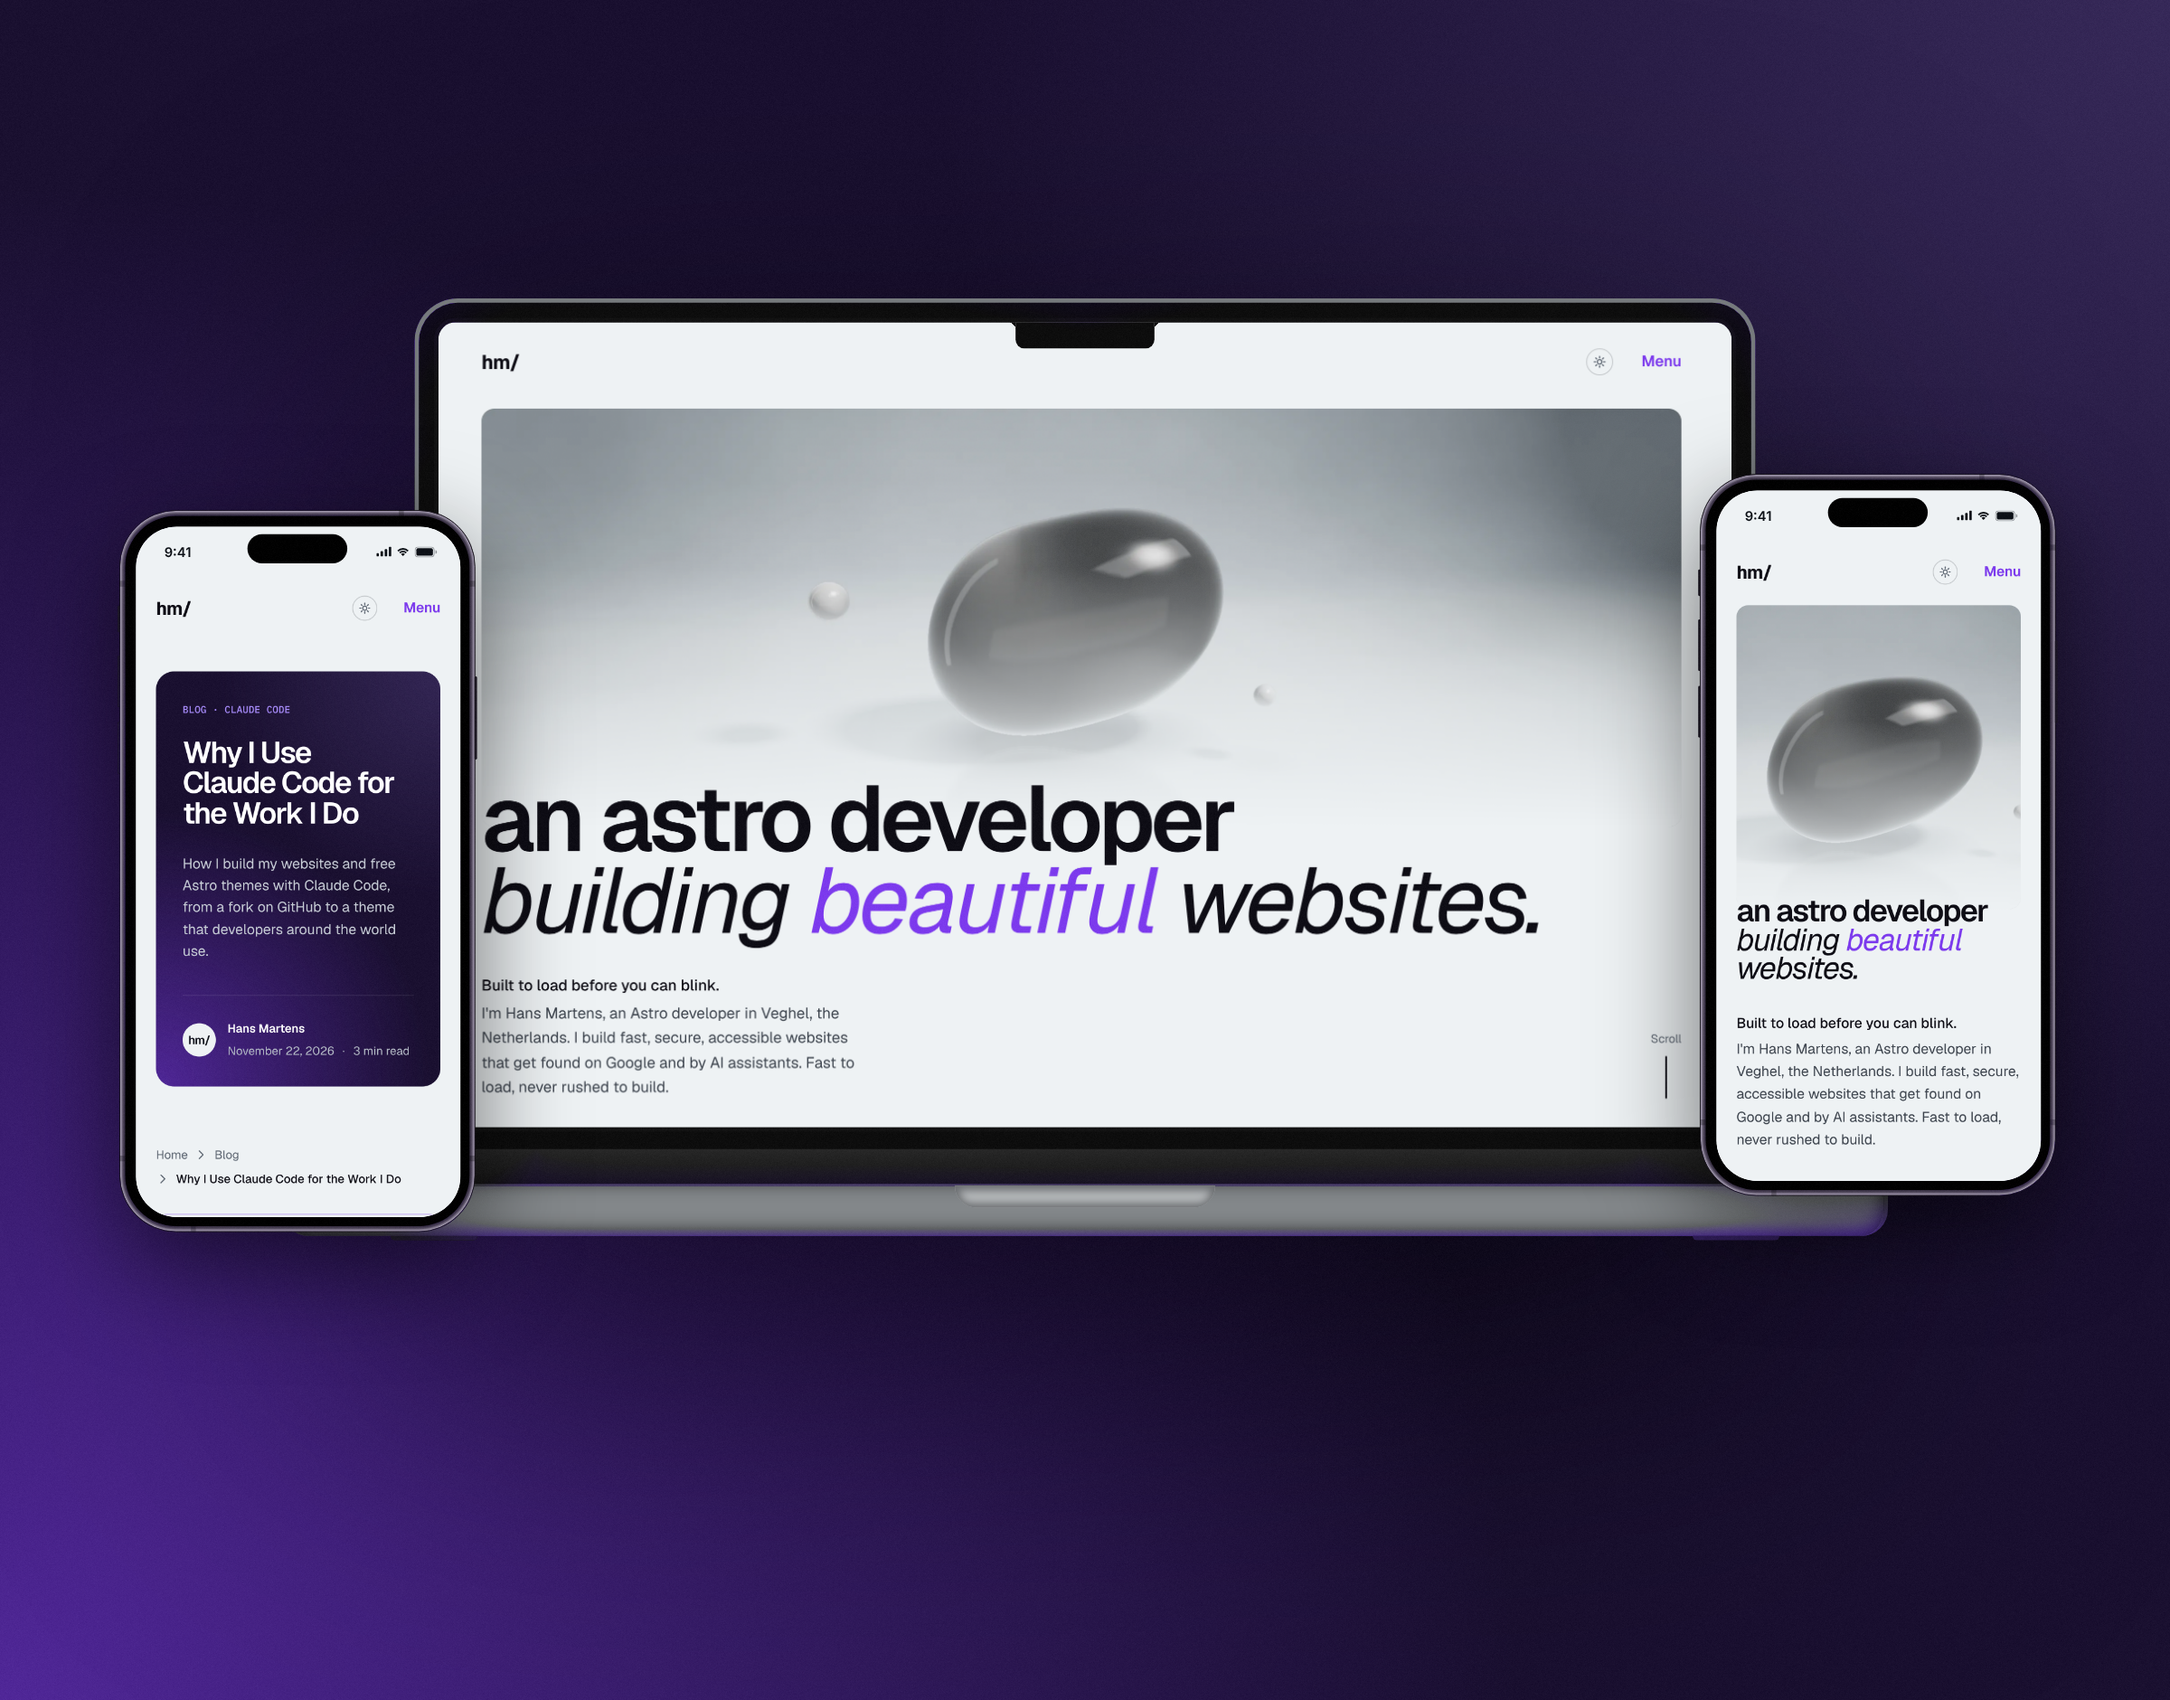
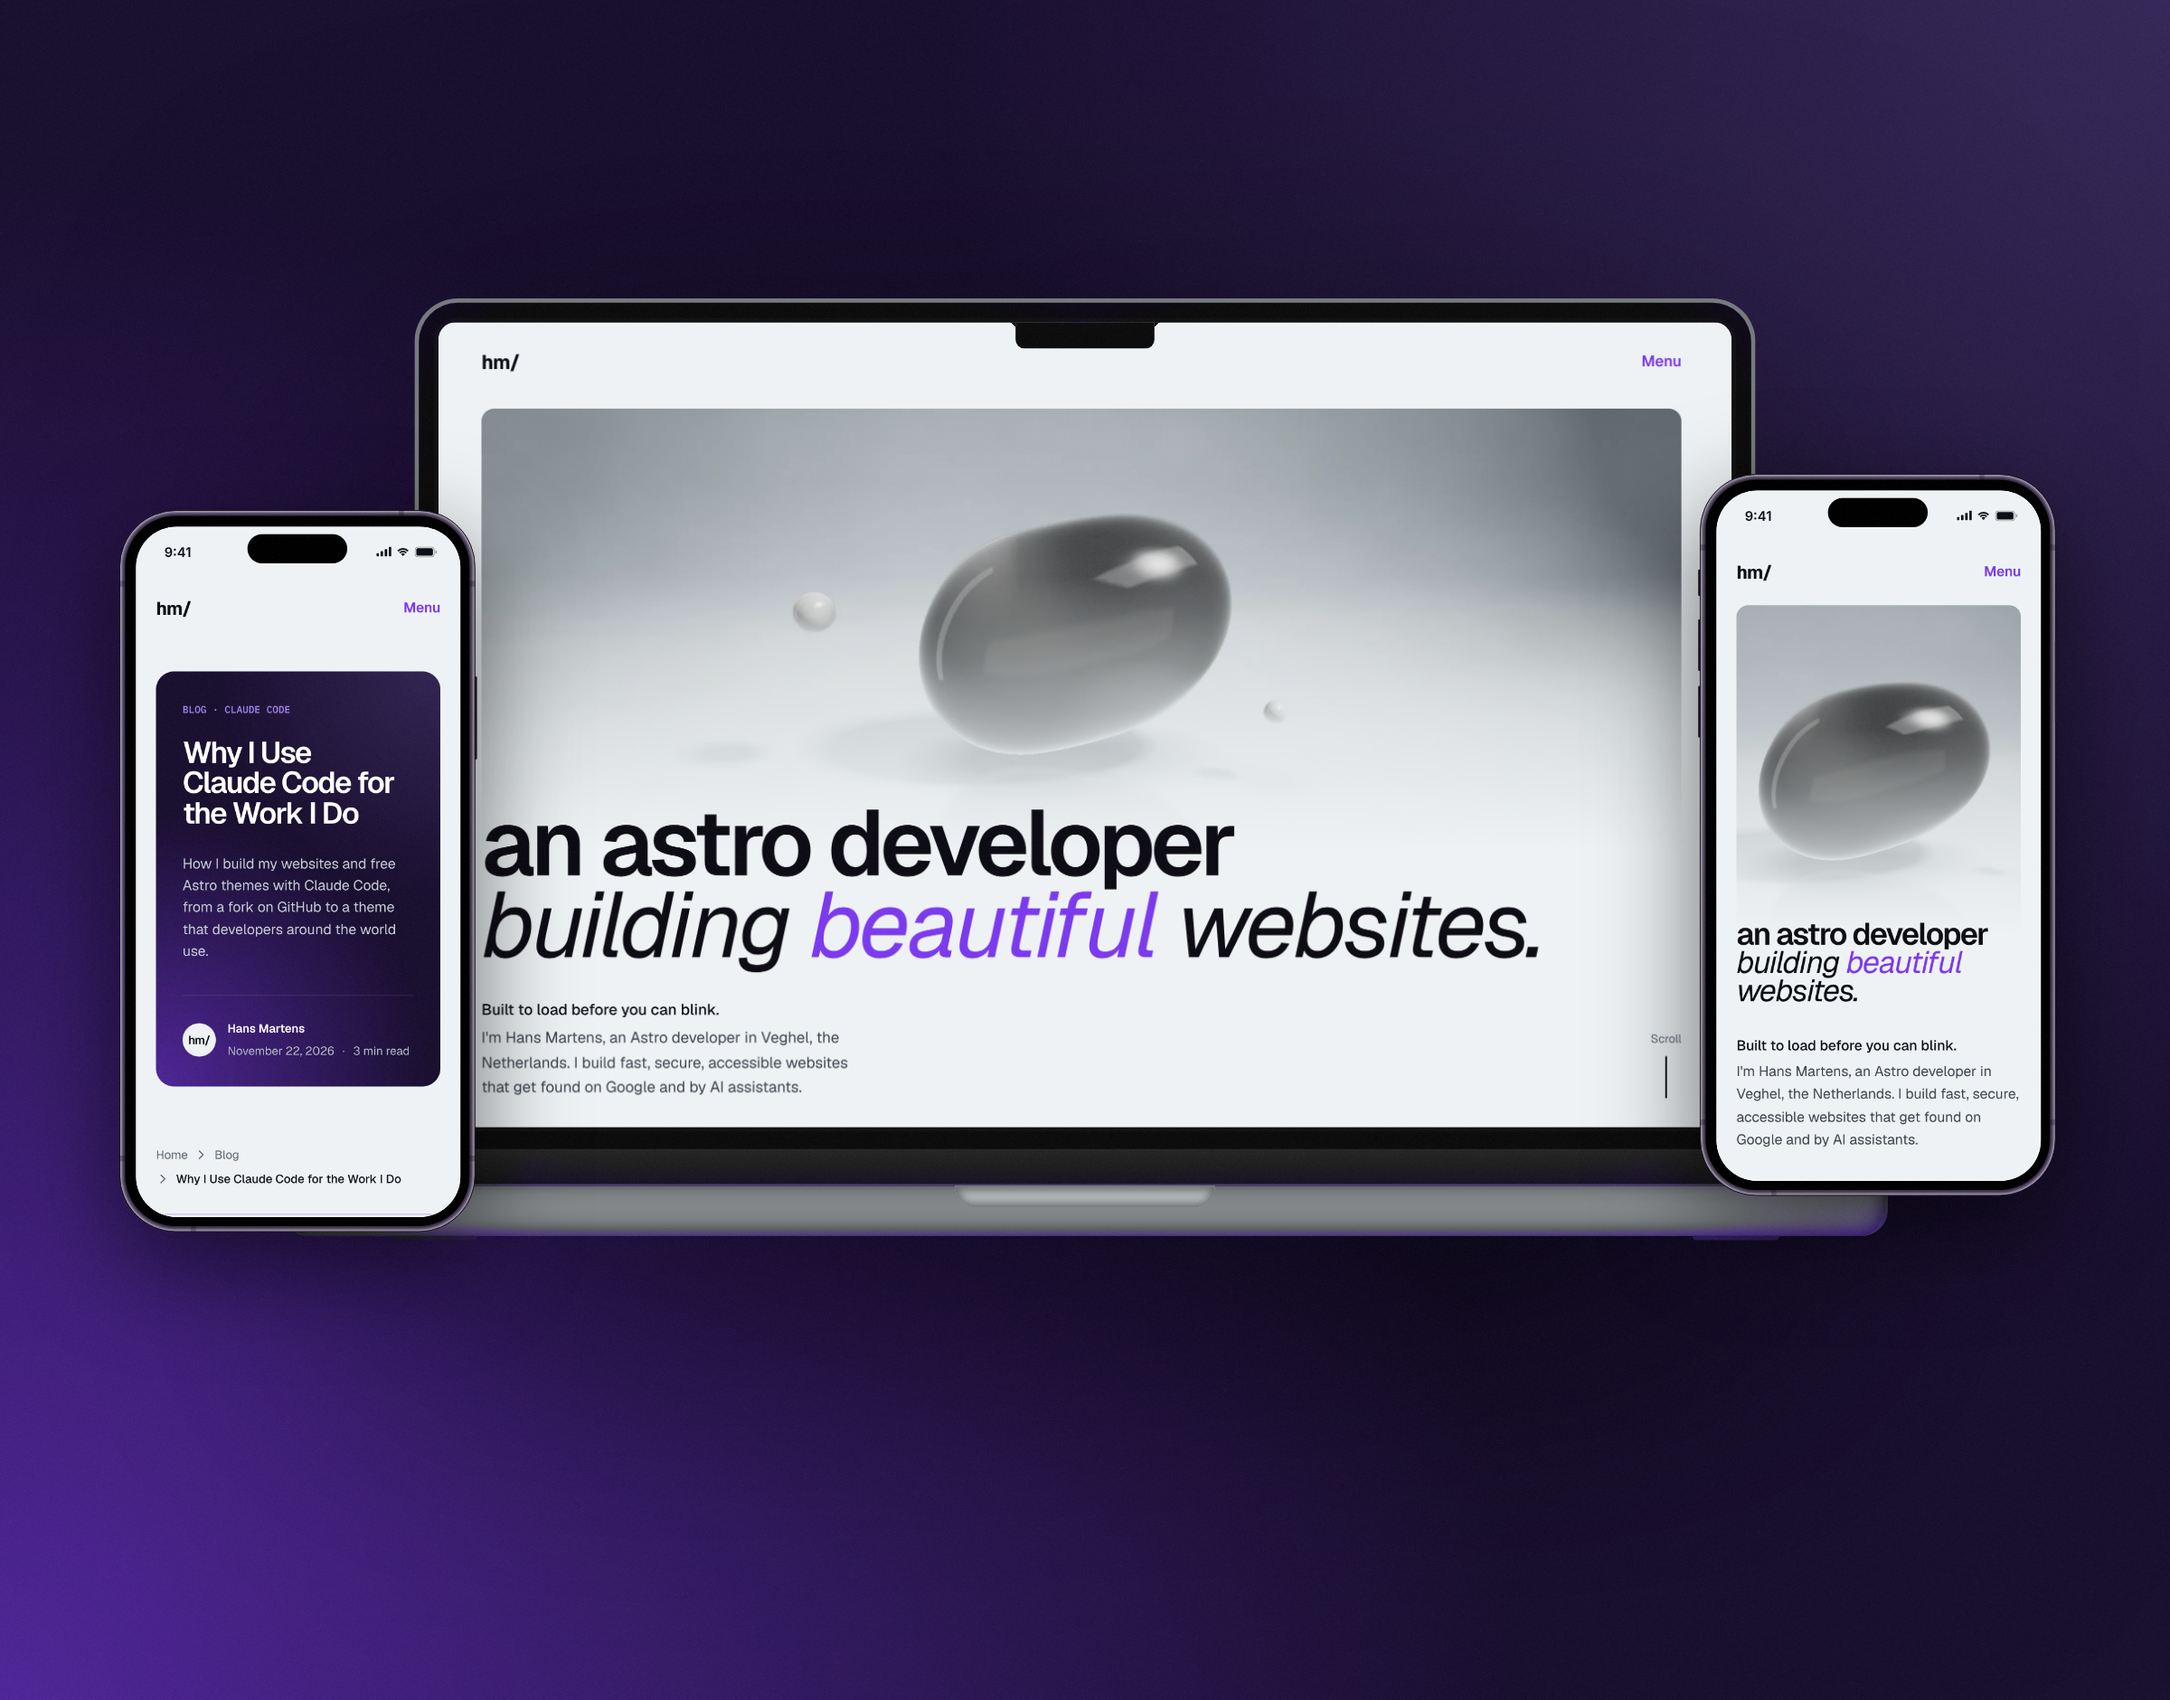
Project 1: its own sharp hero picture, shaped for the screen
The project hero showed the card's wide mockup (2.3:1) on a 16:10
screen: cover cropped the sides and the browser stretched it 1.6-2x on
a sharp display, so the devices and screen text looked soft. A new
pageHero field gives a project page its own hero picture; project 1's
is composed for 16:10 at 3840x2400, with the devices in the upper half
and room for the title, and the hero now offers 3200 and 3840 widths.
The card, phone card and close-up are re-rendered with fresh screens
(without the removed intro line), in their own shapes. All stored
lossless with the fine dither in the dark backdrop. Lighthouse mobile:
project 97, home 99.

Claude-Session: https://claude.ai/code/session_01QQKtzRrqmVqCvb8agowgiA

diff --git a/src/content.config.ts b/src/content.config.ts
@@ -100,6 +100,11 @@ const work = defineCollection({
        *  top right and the title at the bottom. Without it, phones crop the
        *  middle out of the wide picture. */
       featureMobile: image().optional(),
+      /** Optional: the project page's own hero picture, composed for a
+       *  desktop screen's shape (16:10) and large enough for a sharp
+       *  screen. Without it the hero uses `feature`, which is shaped for
+       *  the card and gets cropped and enlarged there. */
+      pageHero: image().optional(),
       /** The device mockup. Revealed on hover when a `feature` is set. */
       cover: image().optional(),
       coverAlt: z.string().optional(),

diff --git a/src/content/work/hansmartens-dev.md b/src/content/work/hansmartens-dev.md
@@ -6,6 +6,7 @@ year: 2026
 url: "https://hansmartens.dev"
 feature: "../../assets/work/hansmartens-dev/mockup-hero.webp"
 featureMobile: "../../assets/work/hansmartens-dev/mockup-mobile.webp"
+pageHero: "../../assets/work/hansmartens-dev/page-hero.webp"
 coverAlt: "hansmartens.dev on a MacBook and two iPhones: the homepage and a blog post"
 gallery:
   - src: "../../assets/work/hansmartens-dev/mockup.webp"
